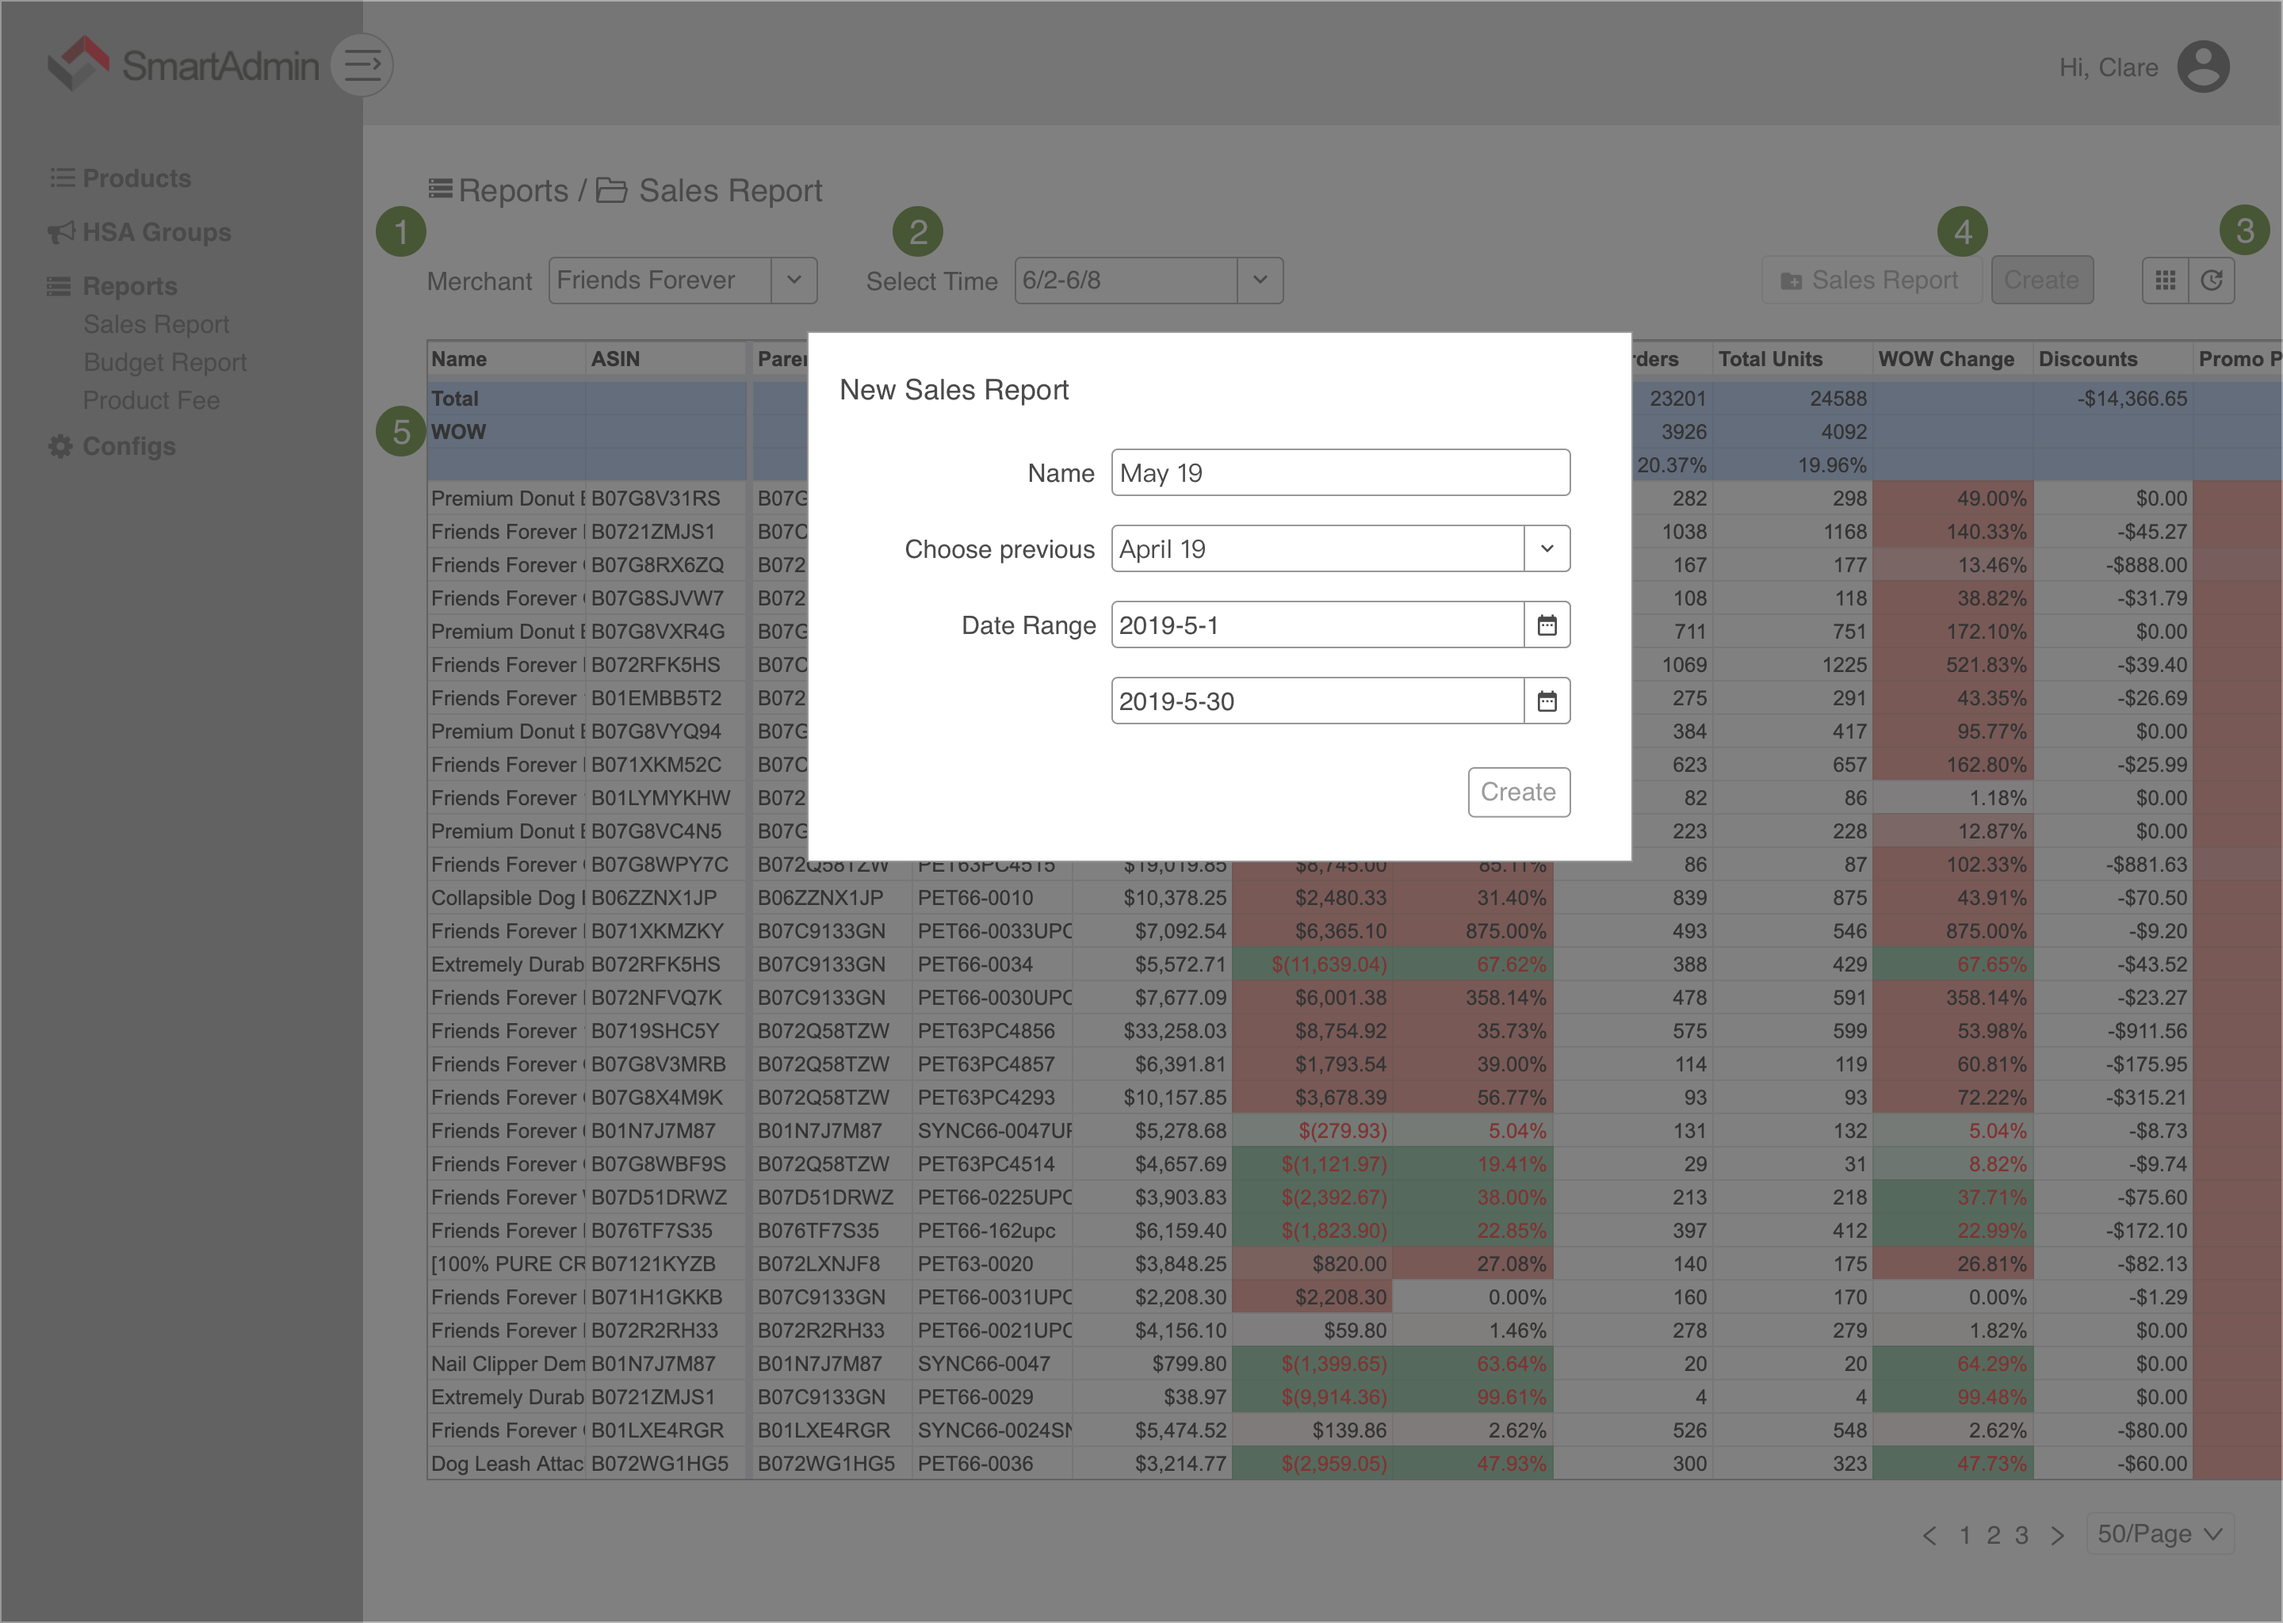
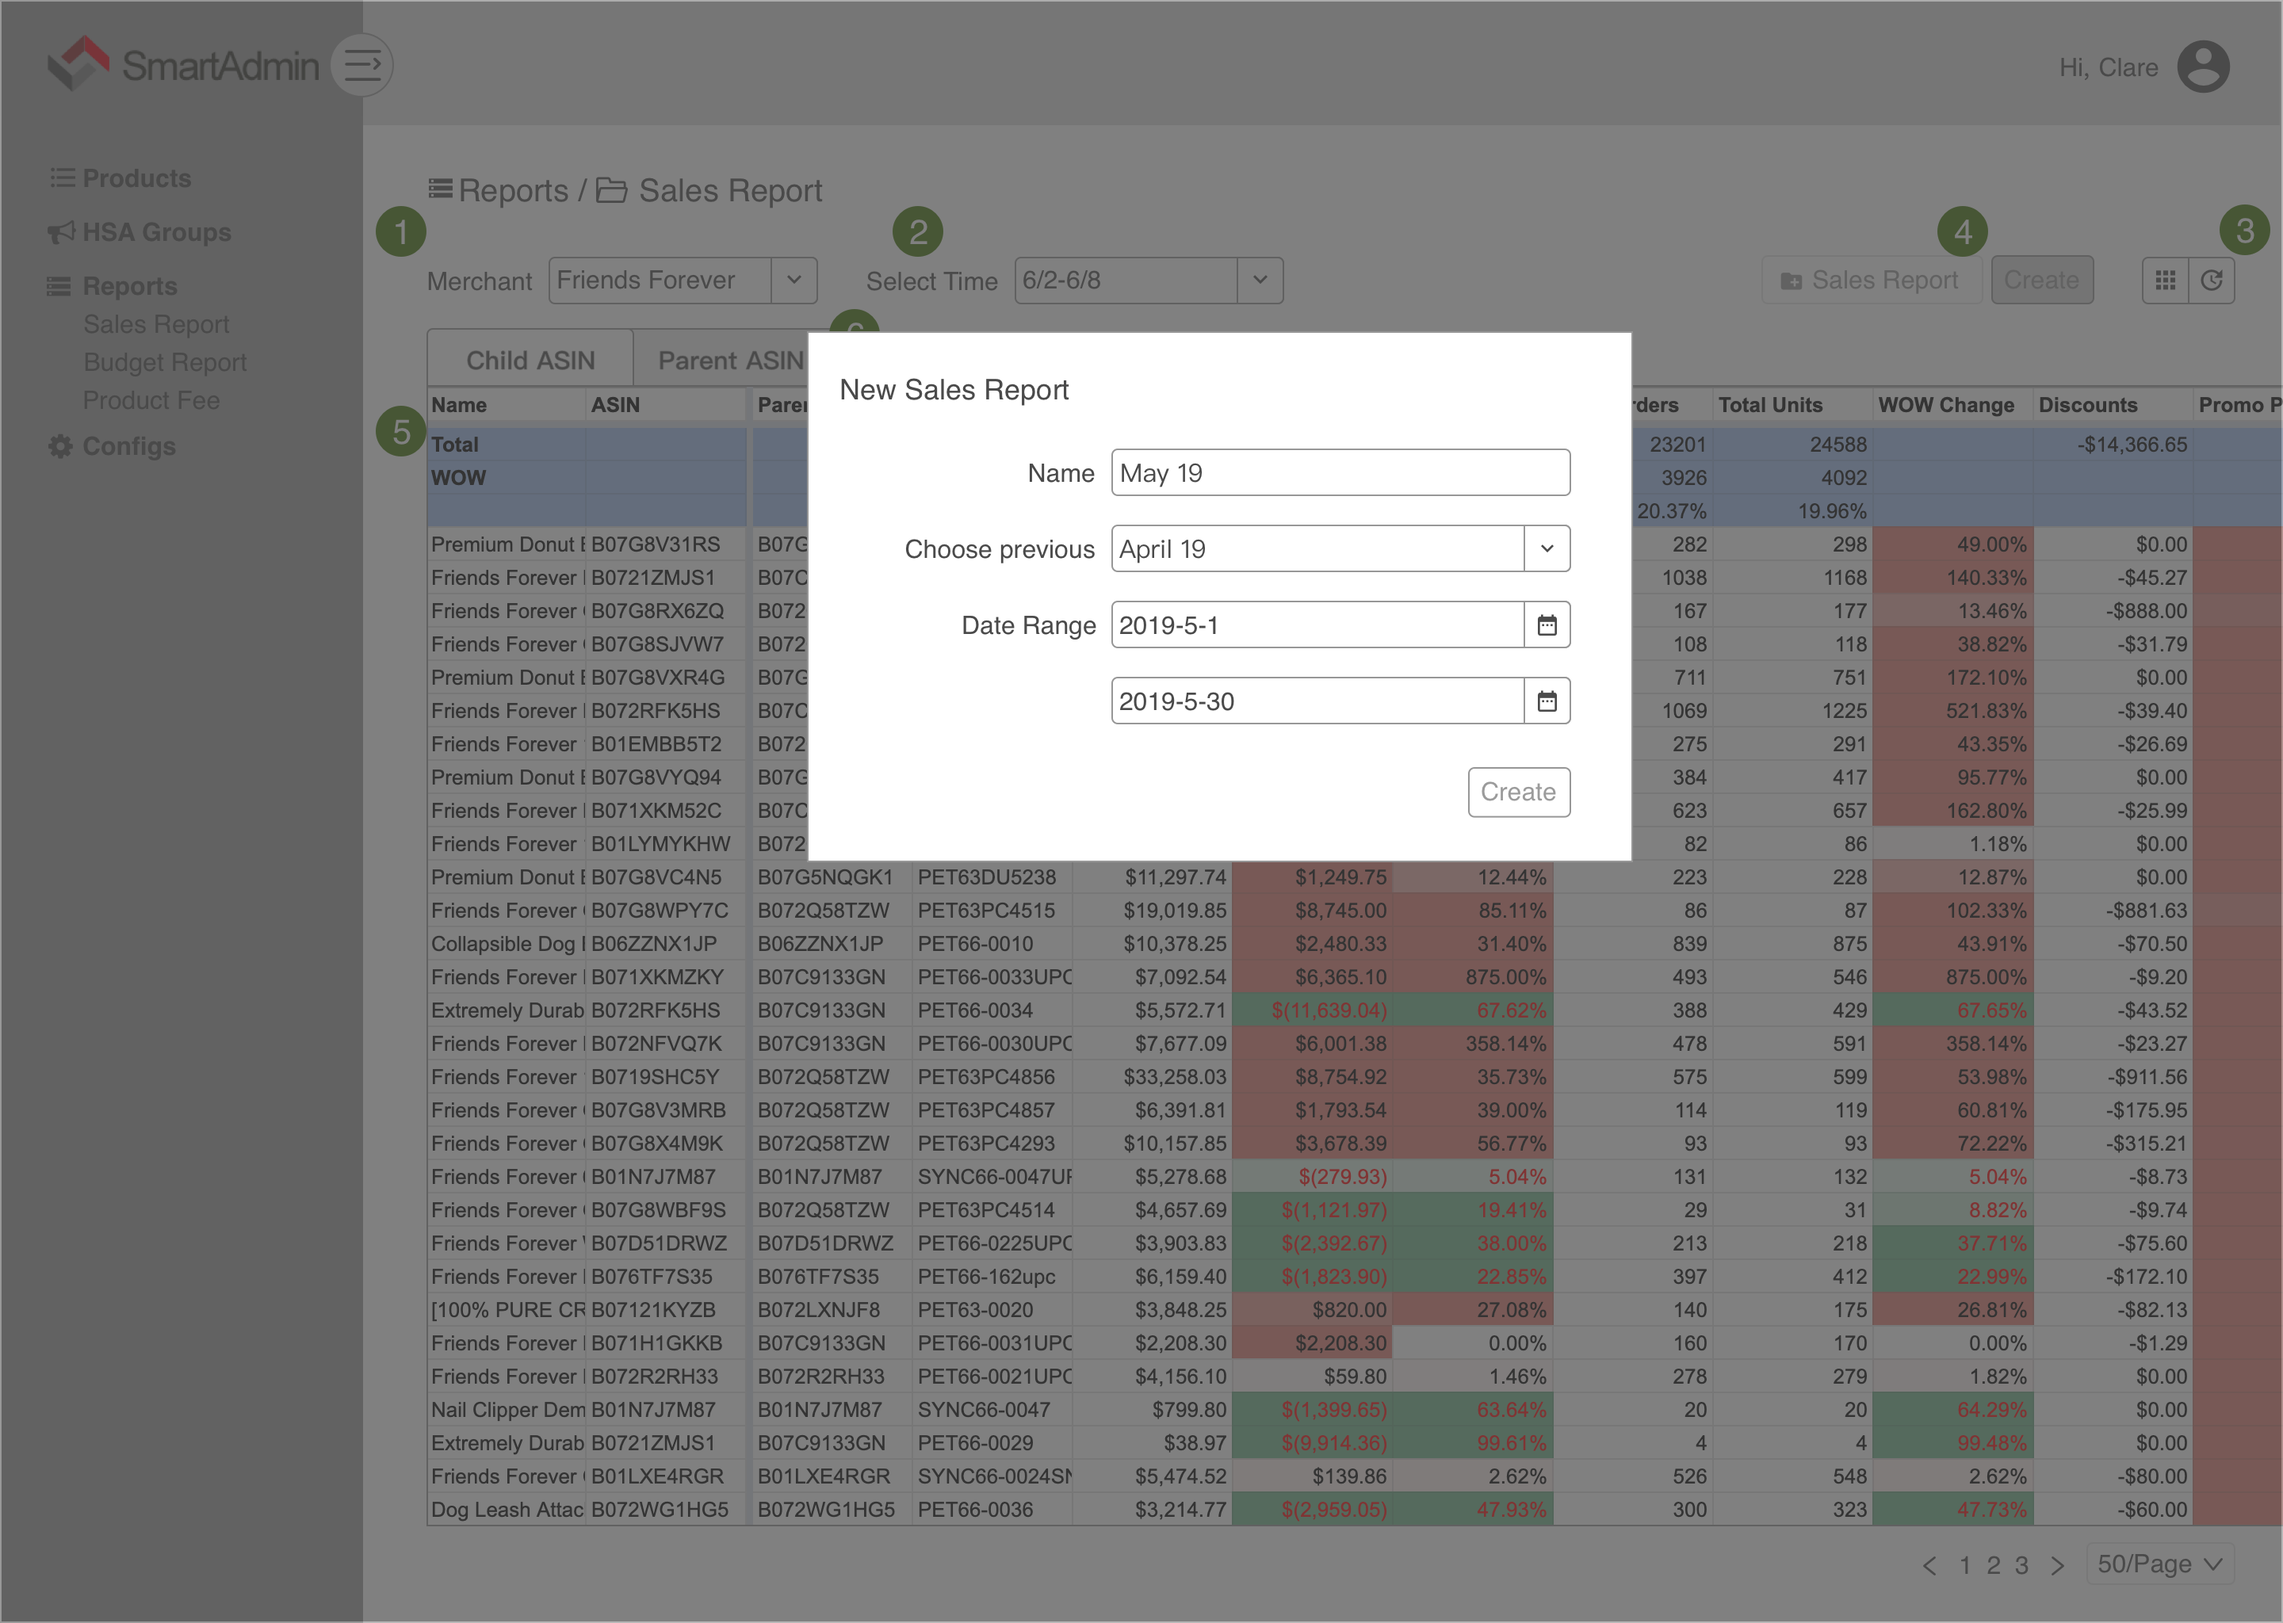
update SalesReport, ProductFees & Optimizations

diff --git a/index.html b/index.html
@@ -565,14 +565,48 @@ div.prism-show-language > div.prism-show-language-label {
 <li>首行提供排序、筛选、搜索功能</li>
 <li>第二、三四行计算 Subtotal、Total 和 WOW</li>
 </ul></li>
+<li>切换 Child Asin/Parent Asin 报表
+
+<ul>
+<li>将 Child Asin 结果 GroupBy Parent Asin</li>
+</ul></li>
 </ol>
 
 <h5 id="toc_3">生成流程及内容、格式</h5>
 
 <ol>
 <li><p>维护一份 Product Fee (COGS) 表，用于计算 Product Cost<br>
-可以点击 Unit Cost 单元格单个修改，也可上传 csv/xlsx 文件进行批量修改。批量修改时新增 SKU 不存在的记录，更新 SKU 已存在的 Unit Cost。
-<img src="pic/ProductFee.png" alt="Sales Report"></p></li>
+数据来源 FBA Fee Preview Report：_GET_FBA_ESTIMATED_FBA_FEES_TXT_DATA_   <img src="pic/ProductFee.png" alt="Sales Report"> </p>
+
+<ul>
+<li>单条新增、修改<br>
+
+<ul>
+<li>单条新增：在弹出框中输入新 SKU 及其他值并保存，保存时检查最新的 FBA Fee Preview Report，如果 Product 信息已存在则覆盖用户输入 </li>
+<li>单条修改：在弹出框中输入旧 SKU 及其他值并保存，保存时 Product 信息也以最新的 FBA Fee Preview Report 为准，若要覆盖之前值，需勾选 Update All</li>
+<li>未填写的被视为使用默认值</li>
+</ul></li>
+</ul>
+
+<p><img src="pic/ProductFee-add.png" alt="Sales Report"></p>
+
+<ul>
+<li>批量新增、修改
+
+<ul>
+<li>批量新增：下载模板，填写新 SKU 及其他值后上传，保存时 Product 信息以最新的 FBA Fee Preview Report 为准</li>
+<li>批量修改：下载模板，填写旧 SKU 及其他值后上传，保存时 Product 信息以最新的 FBA Fee Preview Report 为准</li>
+<li>批量新增和修改可以在同一个文件内进行</li>
+<li>未填写的被视为使用默认值</li>
+</ul></li>
+</ul>
+
+<p><img src="pic/ProductFee-upload.png" alt="Sales Report"></p>
+
+<ul>
+<li>不允许删除<br>
+具体计算见示例 gsheet</li>
+</ul></li>
 <li><p>根据用户所选的 Merchant 和时间段从 MWS API 获取基础数据（Data），这部分数据不需要向用户展示。<br>
 数据的来源有  </p>
 
@@ -750,7 +784,7 @@ div.prism-show-language > div.prism-show-language-label {
 <tr>
 <td style="text-align: left">Cost</td>
 <td style="text-align: left"><mark>Product Cost</mark></td>
-<td style="text-align: left">各个 SKU 的 COGS[Unit Cost] <code>×</code> Total Units</td>
+<td style="text-align: left">各个 SKU 最新的 Product Fees[LDP Cost] <code>×</code> Total Units</td>
 </tr>
 <tr>
 <td style="text-align: left">Cost</td>
@@ -1932,7 +1966,8 @@ PAsinBudget_line1[21] = &#39;Photo/Video&#39;
 
 <h5 id="toc_9">Optimization Details</h5>
 
-<p>Generate SP file 模块空格内容自动填充<br>
+<p><img src="pic/Optimization-caldefault.png" alt="ShareProject">
+Generate SP file 模块空格内容根据所选择的 SKU 自动填充<br>
 <em>以下 Sum() 指的是取所有选中产品对应值之和</em></p>
 
 <p>在最近30天的 Data 中查询并计算：</p>
